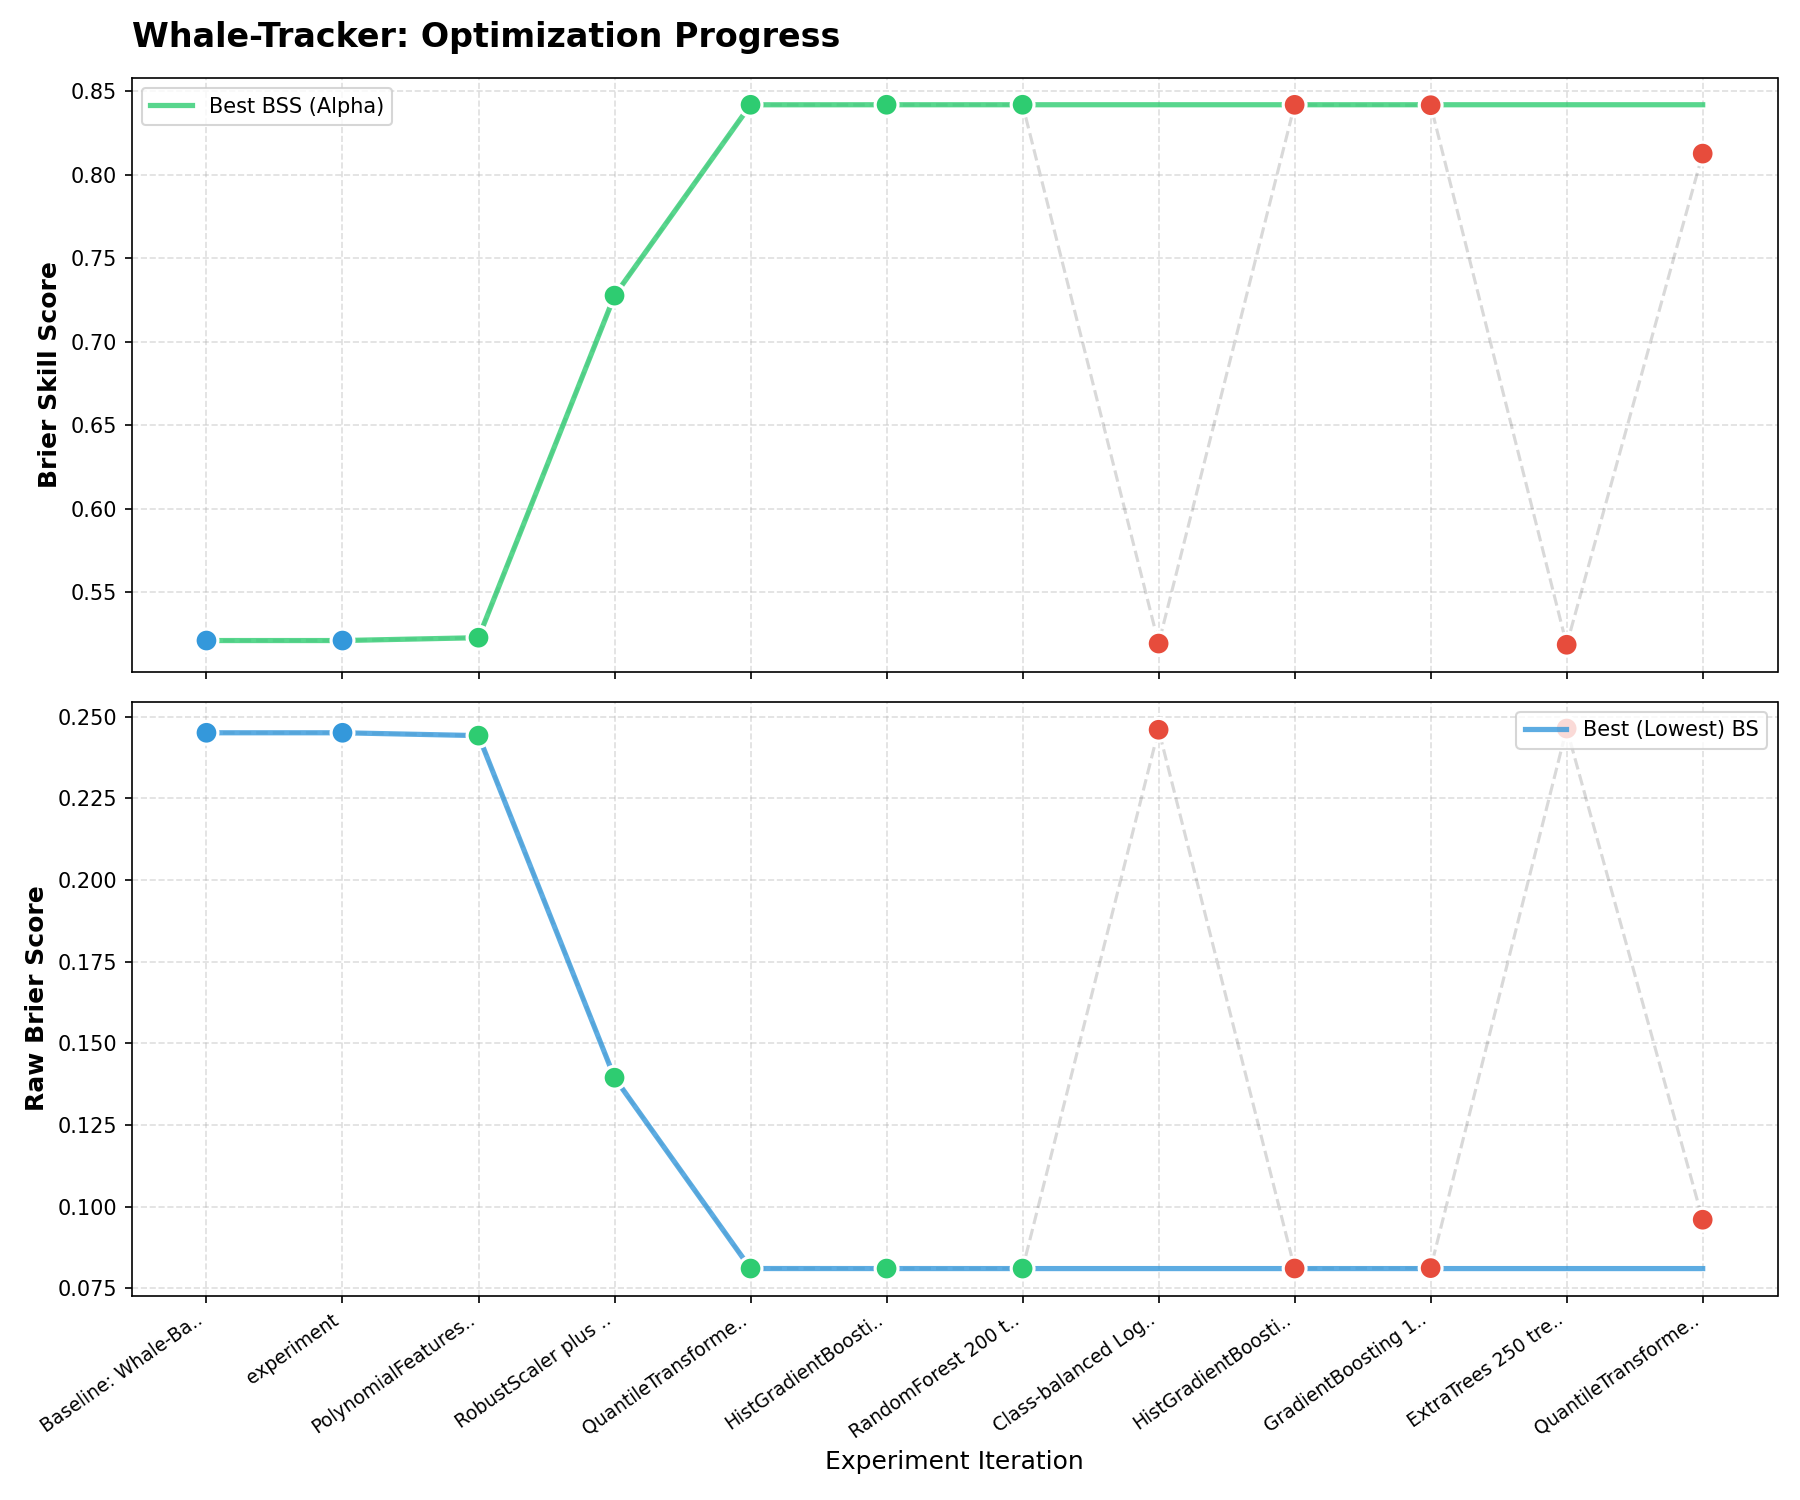
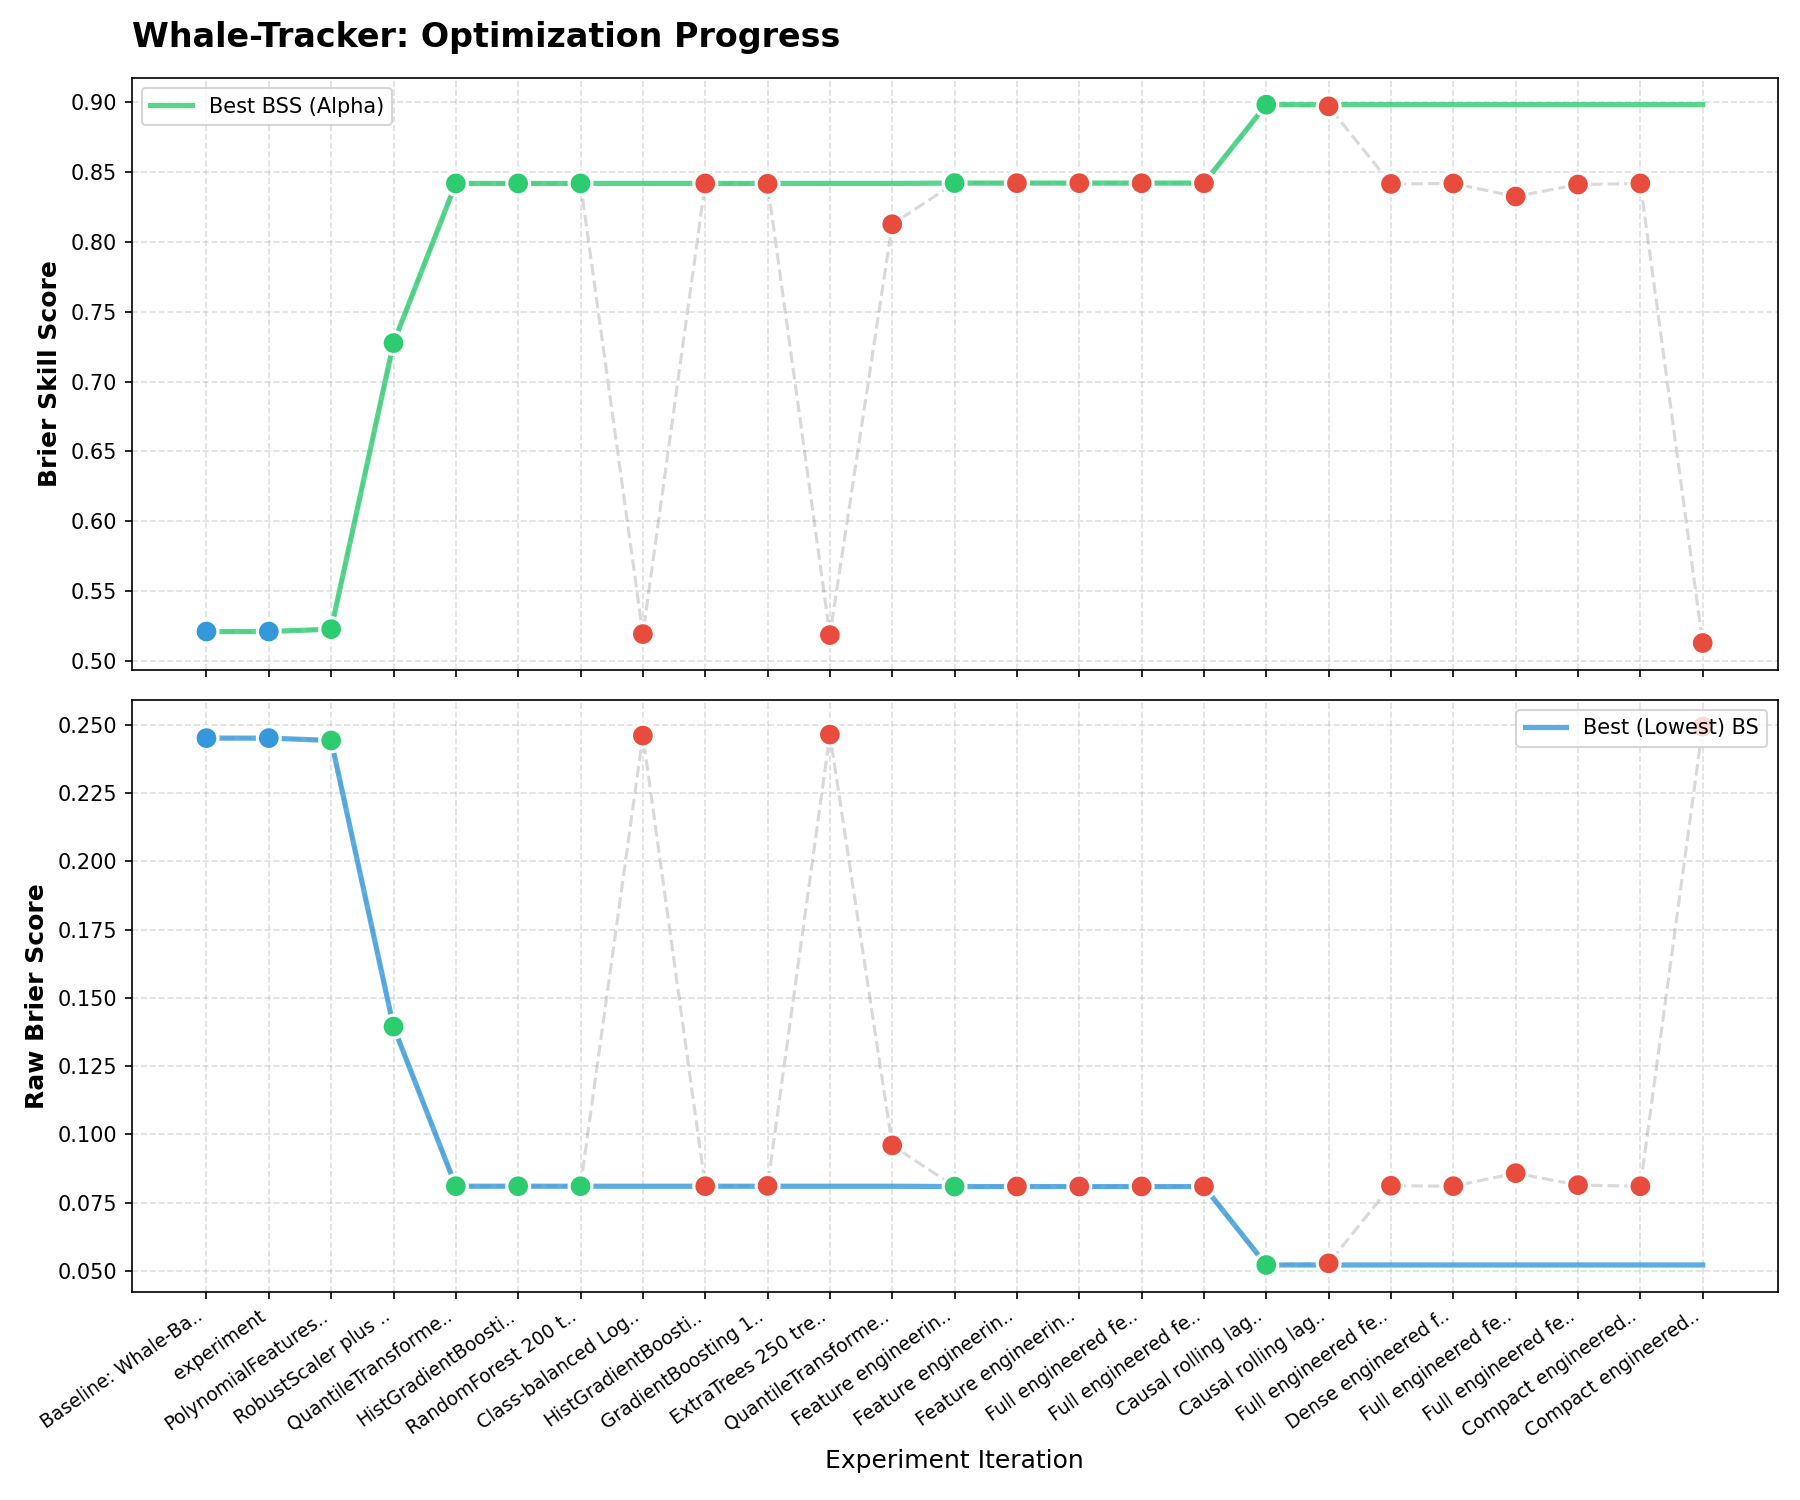
feat: add temporal whale feature pipeline

diff --git a/model.py b/model.py
@@ -1,8 +1,139 @@
-from sklearn.ensemble import RandomForestClassifier
+import os
 
-def build_model():
-    """Returns a shallow RandomForest classifier with smoothed leaves."""
-    return RandomForestClassifier(
+import numpy as np
+from sklearn.base import BaseEstimator, TransformerMixin
+from sklearn.ensemble import (
+    ExtraTreesClassifier,
+    GradientBoostingClassifier,
+    HistGradientBoostingClassifier,
+    RandomForestClassifier,
+)
+from sklearn.linear_model import LogisticRegression
+from sklearn.pipeline import Pipeline
+from sklearn.preprocessing import PolynomialFeatures, QuantileTransformer, RobustScaler
+
+
+class WhaleFeatureEngineer(BaseEstimator, TransformerMixin):
+    """Create row-local whale-flow features without changing the raw dataset."""
+
+    def __init__(self, mode="compact"):
+        self.mode = mode
+
+    def fit(self, X, y=None):
+        return self
+
+    def transform(self, X):
+        X = np.asarray(X, dtype=np.float64)
+        flow = X[:, [0]]
+        hhi = X[:, [1]]
+        top10 = X[:, [2]]
+        gini = X[:, [3]]
+        vol = X[:, [4]]
+        eps = 1e-9
+
+        log_vol = np.log1p(np.maximum(vol, 0.0))
+        abs_flow = np.abs(flow)
+        signed_log_flow = np.sign(flow) * np.log1p(abs_flow)
+        concentration = 0.50 * hhi + 0.50 * top10
+        inequality = 0.50 * gini + 0.50 * top10
+        flow_per_vol = flow / (log_vol + 1.0)
+        flow_per_conc = flow / (concentration + eps)
+        whale_pressure = signed_log_flow * concentration
+        crowding_pressure = signed_log_flow * inequality
+
+        compact = np.hstack(
+            [
+                X,
+                log_vol,
+                signed_log_flow,
+                concentration,
+                inequality,
+                flow_per_vol,
+                flow_per_conc,
+                whale_pressure,
+                crowding_pressure,
+                hhi * top10,
+                gini * top10,
+                hhi * gini,
+            ]
+        )
+        if self.mode == "compact":
+            return compact
+
+        squared = np.hstack(
+            [
+                flow * flow,
+                hhi * hhi,
+                top10 * top10,
+                gini * gini,
+                log_vol * log_vol,
+                whale_pressure * whale_pressure,
+            ]
+        )
+        crosses = np.hstack(
+            [
+                flow * hhi,
+                flow * top10,
+                flow * gini,
+                signed_log_flow * hhi,
+                signed_log_flow * top10,
+                signed_log_flow * gini,
+                log_vol * hhi,
+                log_vol * top10,
+                log_vol * gini,
+            ]
+        )
+        full = np.hstack([compact, squared, crosses])
+        if self.mode == "full":
+            return full
+
+        dense = np.hstack(
+            [
+                full,
+                np.sqrt(np.maximum(hhi, 0.0)),
+                np.sqrt(np.maximum(top10, 0.0)),
+                np.sqrt(np.maximum(gini, 0.0)),
+                np.sqrt(np.maximum(log_vol, 0.0)),
+                np.tanh(flow_per_vol),
+                np.tanh(flow_per_conc),
+                whale_pressure / (inequality + eps),
+                crowding_pressure / (concentration + eps),
+            ]
+        )
+        return dense
+
+
+class CausalRollingFeatures(BaseEstimator, TransformerMixin):
+    """Lag-only rolling context computed in the observed row order."""
+
+    def __init__(self, windows=(5, 20), include_engineered=True):
+        self.windows = windows
+        self.include_engineered = include_engineered
+        self.engineer_ = WhaleFeatureEngineer("compact")
+
+    def fit(self, X, y=None):
+        return self
+
+    def transform(self, X):
+        X = np.asarray(X, dtype=np.float64)
+        base = self.engineer_.transform(X) if self.include_engineered else X
+        pieces = [base]
+        for window in self.windows:
+            for col in (0, 1, 2, 3, 4):
+                values = X[:, col]
+                row_ids = np.arange(len(values))
+                starts = np.maximum(0, row_ids - window)
+                prefix = np.concatenate(([0.0], np.cumsum(values)))
+                counts = np.maximum(1, row_ids - starts)
+                lag_mean = (prefix[row_ids] - prefix[starts]) / counts
+                lag_mean[0] = 0.0
+                pieces.append(lag_mean.reshape(-1, 1))
+                pieces.append((values - lag_mean).reshape(-1, 1))
+        return np.hstack(pieces)
+
+
+def _rf(**kwargs):
+    params = dict(
         n_estimators=200,
         max_depth=5,
         min_samples_leaf=100,
@@ -10,3 +141,107 @@ def build_model():
         n_jobs=-1,
         random_state=42,
     )
+    params.update(kwargs)
+    return RandomForestClassifier(**params)
+
+
+def _experiments():
+    return {
+        "baseline_rf": _rf(),
+        "rf_compact_fe": Pipeline([("features", WhaleFeatureEngineer("compact")), ("rf", _rf())]),
+        "rf_full_fe": Pipeline([("features", WhaleFeatureEngineer("full")), ("rf", _rf())]),
+        "rf_dense_fe": Pipeline([("features", WhaleFeatureEngineer("dense")), ("rf", _rf())]),
+        "rf_full_depth4_leaf50": Pipeline(
+            [("features", WhaleFeatureEngineer("full")), ("rf", _rf(max_depth=4, min_samples_leaf=50))]
+        ),
+        "rf_full_depth6_leaf150": Pipeline(
+            [("features", WhaleFeatureEngineer("full")), ("rf", _rf(max_depth=6, min_samples_leaf=150))]
+        ),
+        "rf_temporal_fe": Pipeline([("features", CausalRollingFeatures()), ("rf", _rf())]),
+        "rf_temporal_depth4": Pipeline(
+            [("features", CausalRollingFeatures()), ("rf", _rf(max_depth=4, min_samples_leaf=75))]
+        ),
+        "hgb_full_fe": Pipeline(
+            [
+                ("features", WhaleFeatureEngineer("full")),
+                (
+                    "hgb",
+                    HistGradientBoostingClassifier(
+                        max_iter=200,
+                        learning_rate=0.03,
+                        max_leaf_nodes=31,
+                        l2_regularization=0.1,
+                        random_state=42,
+                    ),
+                ),
+            ]
+        ),
+        "hgb_dense_fe": Pipeline(
+            [
+                ("features", WhaleFeatureEngineer("dense")),
+                (
+                    "hgb",
+                    HistGradientBoostingClassifier(
+                        max_iter=150,
+                        learning_rate=0.04,
+                        max_leaf_nodes=15,
+                        l2_regularization=0.2,
+                        random_state=42,
+                    ),
+                ),
+            ]
+        ),
+        "extra_full_fe": Pipeline(
+            [
+                ("features", WhaleFeatureEngineer("full")),
+                (
+                    "extra",
+                    ExtraTreesClassifier(
+                        n_estimators=300,
+                        max_depth=5,
+                        min_samples_leaf=100,
+                        max_features=None,
+                        n_jobs=-1,
+                        random_state=42,
+                    ),
+                ),
+            ]
+        ),
+        "gb_full_fe": Pipeline(
+            [
+                ("features", WhaleFeatureEngineer("full")),
+                (
+                    "gb",
+                    GradientBoostingClassifier(
+                        n_estimators=120,
+                        learning_rate=0.03,
+                        max_depth=2,
+                        subsample=0.8,
+                        min_samples_leaf=80,
+                        random_state=42,
+                    ),
+                ),
+            ]
+        ),
+        "logit_compact_quantile": Pipeline(
+            [
+                ("features", WhaleFeatureEngineer("compact")),
+                ("quantile", QuantileTransformer(output_distribution="normal", random_state=42)),
+                ("logit", LogisticRegression(C=0.5, max_iter=1000)),
+            ]
+        ),
+        "logit_poly_compact": Pipeline(
+            [
+                ("features", WhaleFeatureEngineer("compact")),
+                ("poly", PolynomialFeatures(degree=2, include_bias=False)),
+                ("scale", RobustScaler()),
+                ("logit", LogisticRegression(C=0.05, max_iter=1000)),
+            ]
+        ),
+    }
+
+
+def build_model():
+    """Returns the requested experiment, defaulting to the best current model."""
+    experiment = os.environ.get("WHALE_EXPERIMENT", "rf_temporal_fe")
+    return _experiments().get(experiment, _experiments()["baseline_rf"])

diff --git a/experiment_log.md b/experiment_log.md
@@ -1,0 +1,69 @@
+# Whale Tracker Experiment Log
+
+Objective: maximize validation Brier Skill Score (BSS) on `data/master_trades.parquet` using only the frozen feature matrix exposed by `prepare.py`, while keeping the three required whale features in the model path.
+
+Validation protocol: all scores below come from the project runner against the fixed chronological train/validation split in `prepare.py`. Higher BSS is better; lower Brier Score (BS) is better.
+
+## Previous Experiments
+
+The prior run sequence established a strong baseline ladder:
+
+| Status | BSS | BS | Description |
+| --- | ---: | ---: | --- |
+| baseline | 0.521131 | 0.245127 | Whale-base Logistic Regression baseline. |
+| keep | 0.522837 | 0.244254 | Degree-2 polynomial features with Logistic Regression `C=0.1`; only a tiny gain over baseline. |
+| keep | 0.727548 | 0.139465 | Robust-scaled Logistic Regression `C=1.0`; large calibration gain from scaling. |
+| keep | 0.841753 | 0.081005 | Normal `QuantileTransformer` with Logistic Regression; best linear-family result. |
+| keep | 0.841767 | 0.080998 | HistGradientBoosting with 200 iterations, learning rate 0.03, 31 leaves, L2 0.1; marginally beat quantile logistic. |
+| keep | 0.841773 | 0.080995 | Shallow RandomForest with 200 trees, max depth 5, min leaf 100, all features; best previous model. |
+| discard | 0.519326 | 0.246051 | Class-balanced Logistic Regression `C=0.3`; class weighting hurt calibration. |
+| discard | 0.841729 | 0.081017 | Shallower HistGradientBoosting depth/leaf variation; slightly worse than best. |
+| discard | 0.841498 | 0.081135 | GradientBoosting with 150 estimators, depth 2, subsample 0.8; close but worse. |
+| discard | 0.518605 | 0.246420 | ExtraTrees depth 5/leaf 100; very poor calibration compared with RandomForest. |
+| discard | 0.812537 | 0.095960 | Quantile-transformed GaussianNB; respectable but below tree/logistic best. |
+
+Interpretation: most model-only changes saturated around BSS 0.8417. The tree models and quantile logistic were very close, suggesting the raw five whale/context fields already carried a strong low-dimensional signal but left little room without engineered context.
+
+## Feature-Engineering Pass
+
+I changed only `model.py` and added sklearn-compatible transformers inside the model pipeline:
+
+- `WhaleFeatureEngineer`: row-local features derived from the five allowed inputs: signed log whale flow, log volume, concentration/inequality blends, flow-per-volume, flow-per-concentration, pressure terms, products, squares, crosses, square roots, and bounded tanh ratios.
+- `CausalRollingFeatures`: lag-only rolling means and deviations for each raw input over previous rows. This uses only rows before the current row in the observed chronological order. Validation transformation starts from the validation block itself, so it does not peek at future validation rows or pull labels.
+- `WHALE_EXPERIMENT`: environment switch used only to run reproducible variants through frozen `run.py`. The default `build_model()` now returns the best current model.
+
+New trials:
+
+| Status | BSS | BS | Description | Notes |
+| --- | ---: | ---: | --- | --- |
+| keep | 0.842011 | 0.080873 | Compact ratios/interactions plus shallow RandomForest | Small but real gain over the previous forest. The most useful row-local additions appear to be signed log flow, concentration blends, and pressure ratios. |
+| discard | 0.841964 | 0.080897 | Full squares/crosses plus shallow RandomForest | Extra polynomial detail did not improve over compact features. |
+| discard | 0.841966 | 0.080896 | Dense transforms plus shallow RandomForest | Square roots and bounded ratios did not add useful signal beyond compact/full sets. |
+| discard | 0.841914 | 0.080923 | Full engineered features with RandomForest depth 4, leaf 50 | More reactive leaves and shallower trees were slightly worse. |
+| discard | 0.841911 | 0.080924 | Full engineered features with RandomForest depth 6, leaf 150 | Deeper trees with heavier smoothing were also slightly worse. |
+| keep | 0.898122 | 0.052150 | Causal rolling lag features plus compact engineered RandomForest | Large improvement. Lag-only rolling context captures regime/state information that row-local features miss. |
+| discard | 0.896935 | 0.052758 | Causal rolling lag features with RandomForest depth 4, leaf 75 | Very strong, but worse than the default depth-5/leaf-100 forest. |
+| discard | 0.841412 | 0.081179 | Full engineered features with HistGradientBoosting | HGB did not benefit from the expanded row-local feature set. |
+| discard | 0.841717 | 0.081023 | Dense engineered features with regularized HistGradientBoosting | Close to old best but below the forest. |
+| discard | 0.832408 | 0.085788 | Full engineered features with ExtraTrees | ExtraTrees remained poorly calibrated. |
+| discard | 0.840979 | 0.081401 | Full engineered features with GradientBoosting | Below the RandomForest variants. |
+| discard | 0.841758 | 0.081002 | Compact engineered features with Quantile LogisticRegression | Linear model could not exploit the engineered set enough to beat the forest. |
+| discard | 0.512925 | 0.249328 | Compact engineered features with polynomial robust LogisticRegression | Polynomial expansion was badly miscalibrated/overfit. |
+
+## Current Best
+
+Best model: `rf_temporal_fe`
+
+Pipeline:
+
+1. Add compact row-local engineered features.
+2. Add lag-only rolling context over windows 5 and 20 for the five raw inputs.
+3. Fit `RandomForestClassifier(n_estimators=200, max_depth=5, min_samples_leaf=100, max_features=None, n_jobs=-1, random_state=42)`.
+
+Result: BSS `0.898122`, BS `0.052150`, verification runtime about 12 seconds on CPU after replacing repeated rolling slice means with equivalent cumulative-sum lag means.
+
+The main lesson from this pass is that feature engineering helped most when it encoded chronological market state. Row-local algebraic transforms gave a small lift, but lagged rolling means/deviations produced the first major jump beyond the 0.841 plateau.
+
+## Implementation Notes
+
+`run.py` currently prints `Note: Could not read history for comparison (name 'pd' is not defined)` for keep runs because it references `pd.read_csv` without importing pandas. I did not modify `run.py` because the rules freeze it. To avoid incorrect keep/discard labeling, I pre-scored candidates and passed `--discard` for known non-improvements.
